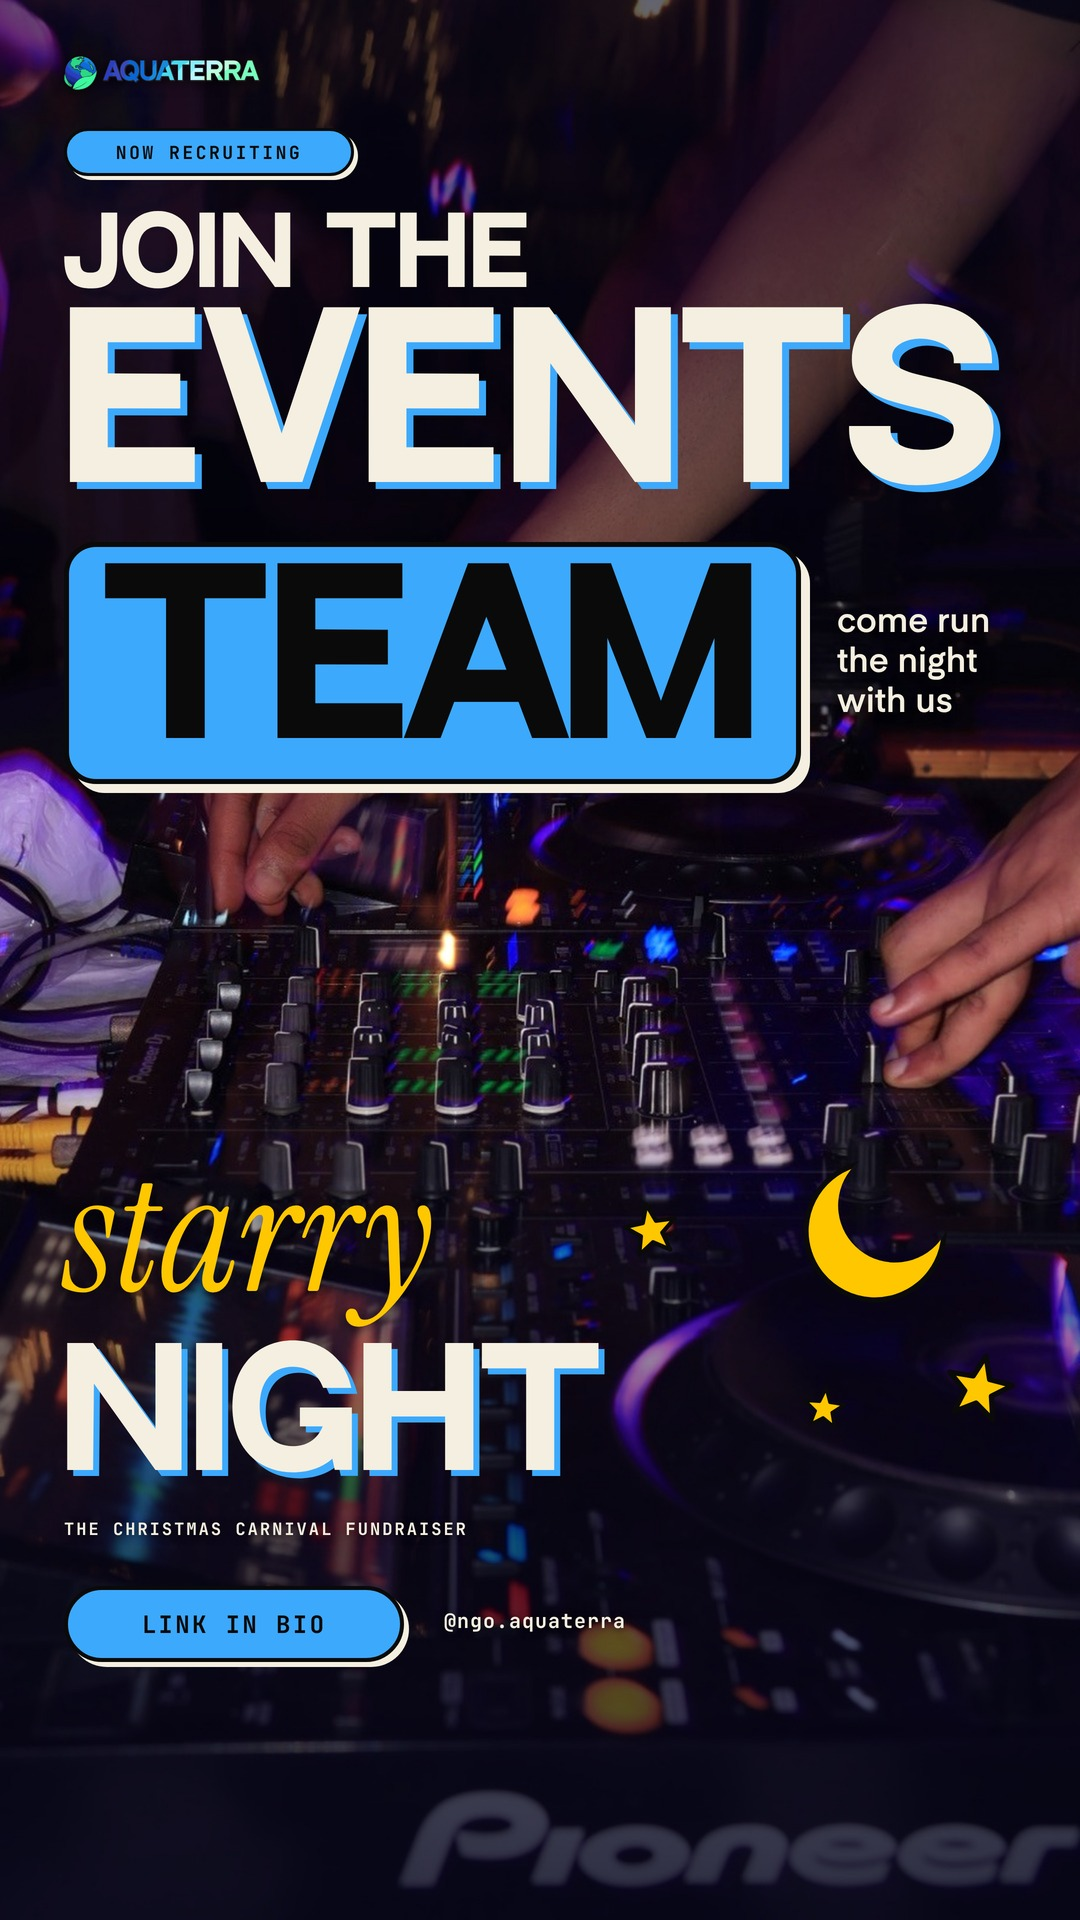
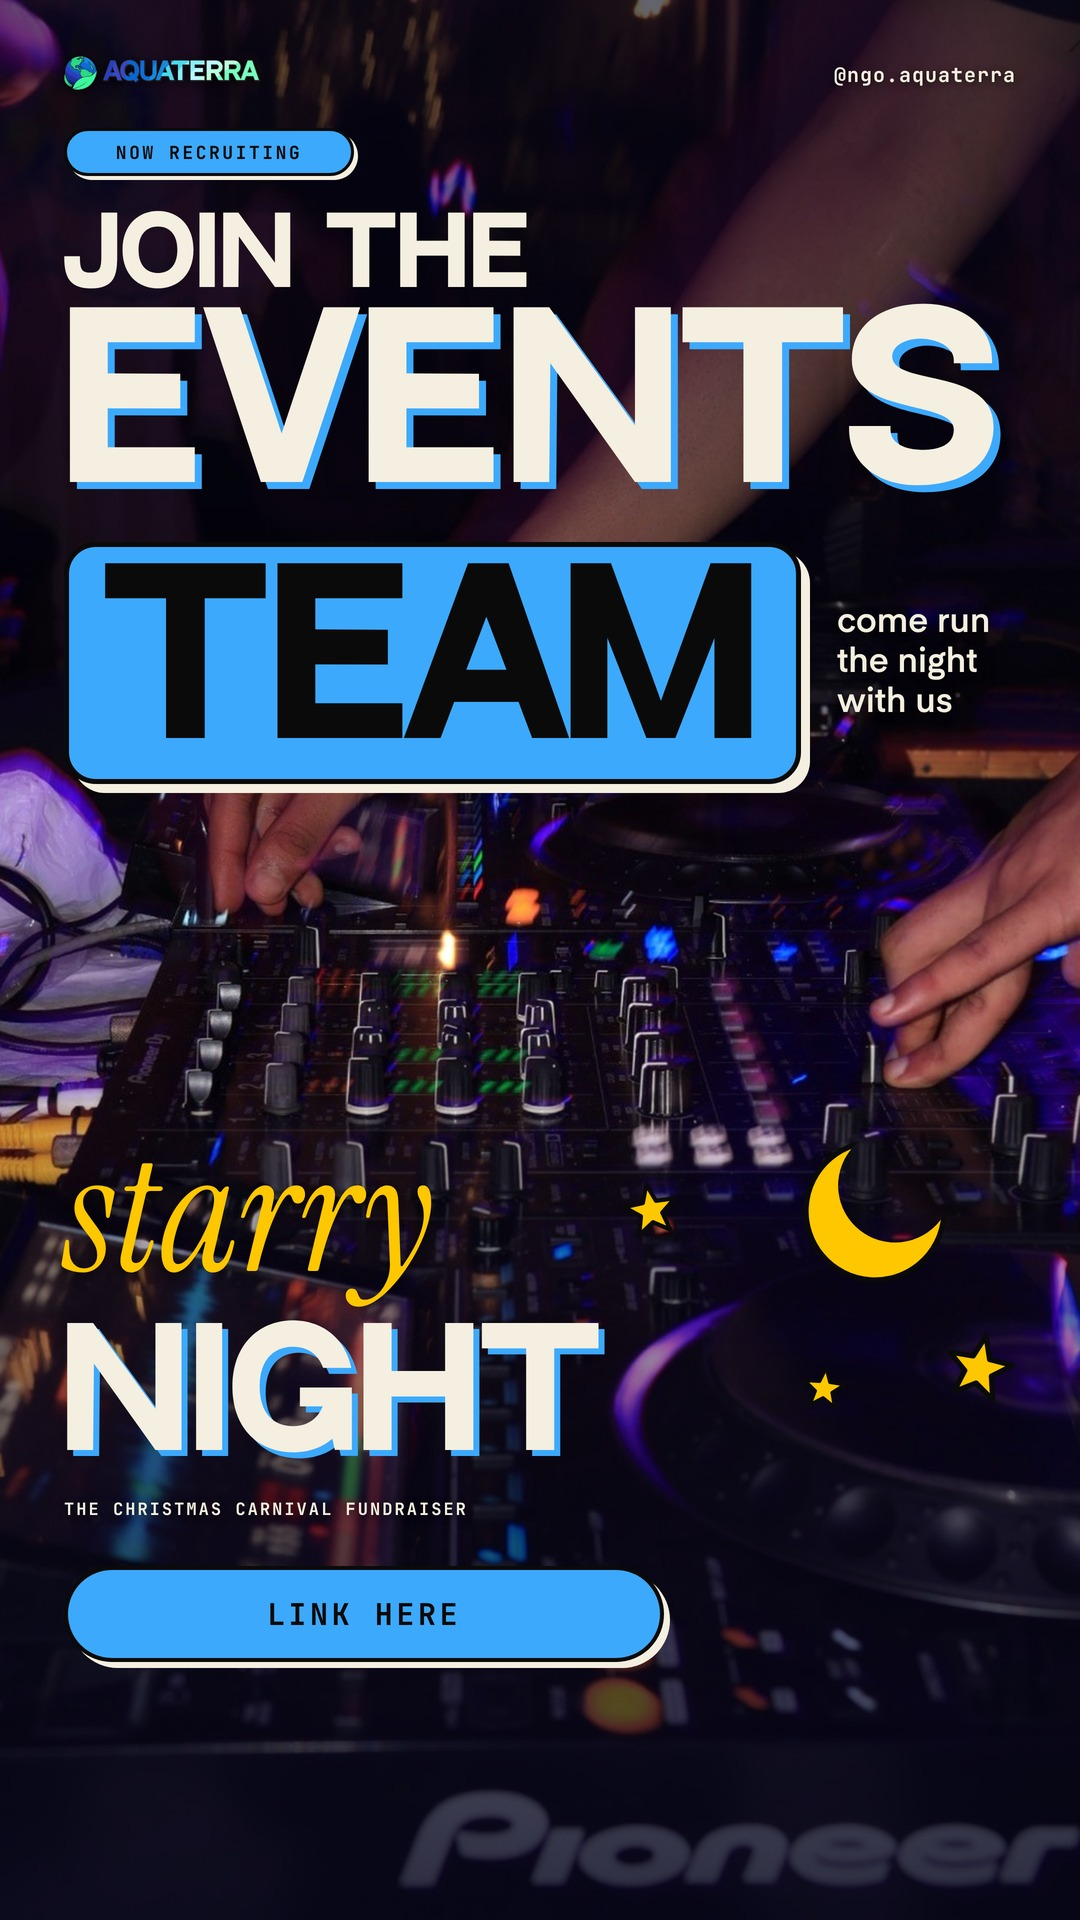
Starry Night recruitment story: LINK HERE slot for the form link sticker, handle to top-right
Claude-Session: https://claude.ai/code/session_01Hjb3YcdKTLxT7Wz1eeiWu3

diff --git a/scratchpad/aq_starry_recruit_photo.py b/scratchpad/aq_starry_recruit_photo.py
@@ -5,7 +5,7 @@ pieces (CAROUSEL_PLAYBOOK) are dark-scrimmed photos with bare logo, accent chips
 lemon for the moon and stars (cream ground rule does not apply on a photo ground). Craft outline/shadow colour is core.outline_of(surface), not ink (an ink shadow vanishes on this ground).
 TEXT COLOUR IS MEASURED, NOT ASSUMED (user: 'texts according to the contrast of the background picture'): the scrimmed background is rebuilt in numpy exactly as the CSS paints it, each text box is sampled at its
 BRIGHTEST 95th-percentile pixel (worst case for light type), and the type colour is picked from cream/white/ink by measured WCAG ratio; the table is printed and asserted. No facts beyond the earlier poster:
-Starry Night = the Christmas carnival fundraiser. Edition, date, venue, roles, deadline, link are NOT supplied; CTA is the AQ convention LINK IN BIO.
+Starry Night = the Christmas carnival fundraiser. Edition, date, venue, roles, deadline, link are NOT supplied; The CTA slot reads LINK HERE (user, 2026-11-21): it is an empty pill sized for an Instagram link sticker, to be covered with the form link when posted.
 Run: PYTHONIOENCODING=utf-8 python scratchpad/aq_starry_recruit_photo.py"""
 import asyncio, base64, io, os, sys, importlib.util
 import numpy as np
@@ -91,7 +91,7 @@ async def main():
         parts.append(box("sub", sx, sub_y, W - M - sx, 120, f'<div style="font-family:var(--e);font-weight:600;font-size:34px;line-height:1.18;color:{hexof(subc)};text-shadow:0 2px 10px rgba(0,0,0,.55)">come run<br>the night<br>with us</div>'))
         y_team_end = y + bh
         # ---- lower block: the photo is the hero in between (hands on the decks, y ~ 760-1180) ----
-        ly = 1160
+        ly = 1140
         parts.append(box("starry", M, ly, 560, starry_h, f'<div style="font-family:var(--s);font-style:italic;font-size:{starry_size:.0f}px;line-height:.9;color:{LEMON};white-space:nowrap;text-shadow:0 3px 14px rgba(0,0,0,.55)">starry</div>'))
         nc, _ = pick("night", M, ly + starry_h + 6, 700, night_h, int(night_size))
         parts.append(box("night", M - 4, ly + starry_h + 6, 700, night_h, f'<div style="font-family:var(--d);font-weight:900;font-size:{night_size:.0f}px;line-height:.86;text-transform:uppercase;color:{hexof(nc)};text-shadow:6px 6px 0 {SKY};white-space:nowrap">NIGHT</div>'))
@@ -104,19 +104,20 @@ async def main():
                          f'<circle cx="50" cy="50" r="46" fill="{LEMON}" stroke="{INK}" stroke-width="3.5" mask="url(#mm)" transform="rotate(-18 50 50)"/></svg>', z=15))
         for i, (kx, ky, ks, kr) in enumerate(((620, ly + 40, 62, -10), (940, ly + 190, 78, 12), (800, ly + 225, 48, 6))):
             parts.append(box(f"dd_star{i}", kx, ky, ks, ks, dd.stamp("star", LEMON, rot=kr, style="clean"), z=14))
-        # CTA row inside the safe zone (ends above y=1670, the reply bar)
-        cy0 = ey + 24 + 44
-        parts.append(box("cta", M, cy0, 340, 76, f'<div style="width:100%;height:100%;background:{SKY};border:4px solid {INK};border-radius:999px;box-shadow:5px 5px 0 {EDGE};box-sizing:border-box;display:flex;align-items:center;justify-content:center;'
-                         f'font-family:var(--m);font-weight:700;font-size:24px;letter-spacing:.1em;color:{INK}">LINK IN BIO</div>', z=12))
-        hc, _ = pick("handle", M + 380, cy0 + 22, 300, 30, 20)
-        parts.append(box("handle", M + 380, cy0 + 22, 300, 30, f'<div style="font-family:var(--m);font-weight:700;font-size:20px;letter-spacing:.05em;color:{hexof(hc)};text-shadow:0 2px 8px rgba(0,0,0,.6)">@ngo.aquaterra</div>'))
+        # LINK SLOT (user, 2026-11-21: 'write link here so we can post the link of the form'): a pill the size of an Instagram link sticker, left clear for it. Ends above the reply bar (y~1670).
+        cy0 = ey + 24 + 44; lw, lh = 600, 96
+        parts.append(box("linkzone", M, cy0, lw, lh, f'<div style="width:100%;height:100%;background:{SKY};border:4px solid {INK};border-radius:999px;box-shadow:6px 6px 0 {EDGE};box-sizing:border-box;display:flex;align-items:center;justify-content:center;'
+                         f'font-family:var(--m);font-weight:700;font-size:30px;letter-spacing:.12em;color:{INK}">LINK HERE</div>', z=12))
+        # the handle moves to the top-right kicker slot so nothing else sits in the link zone
+        hc, _ = pick("handle", W - M - 300, 62, 300, 30, 20)
+        parts.append(box("handle", W - M - 300, 62, 300, 30, f'<div style="font-family:var(--m);font-weight:700;font-size:20px;letter-spacing:.05em;color:{hexof(hc)};text-align:right;text-shadow:0 2px 8px rgba(0,0,0,.6)">@ngo.aquaterra</div>'))
         print("heights: starry", starry_h, "night", night_h, "team_end", y_team_end, "ly", ly)
         print(f"\nTEXT-COLOUR RECEIPT (95th-pct backing pixel under each box)\n{'label':8} {'colour':6} {'ratio':>6} {'floor':>5}  backing")
         for r in receipt: print(f"{r[0]:8} {r[1]:6} {r[2]:>6} {r[3]:>5}  {r[4]}")
-        print("CTA row ends at y =", cy0 + 76, "(reply bar starts ~1670)")
+        print("LINK slot ends at y =", cy0 + lh, "(reply bar starts ~1670)")
         inner = f'<img data-tag="plate" src="{BG_URI}" style="position:absolute;left:0;top:0;width:{W}px;height:{H}px;z-index:0">' + "".join(parts)
         html = B.page(W, H, "#000", inner, grain=False)
-        tp = [("eyebrow", INK, SKY, 18, True), ("team", INK, SKY, 200, True), ("cta", INK, SKY, 24, True)]
+        tp = [("eyebrow", INK, SKY, 18, True), ("team", INK, SKY, 200, True), ("linkzone", INK, SKY, 30, True)]
         for r in receipt:
             tp.append((r[0], {"cream": CREAM, "white": "#FFFFFF", "ink": INK}[r[1]], r[4], 17 if r[0] == "label" else 34, r[0] != "sub"))
         os.makedirs("out/aq_events", exist_ok=True)

diff --git a/brain/RECREATION_AUDIT.md b/brain/RECREATION_AUDIT.md
@@ -3375,3 +3375,4 @@ Same headline system as the slab version; the ink night-sky slab is replaced by 
 
 ### Photo variant (2026-11-21): `scratchpad/aq_starry_recruit_photo.py` -> `sample_outputs/aq_starry_recruit/story_photo.jpg`
 Same copy and facts as the cream story, on the user's DJ-decks photo (hands and decks only, no faces; `engine/assets/img/events/starry-night-2026-11/dj_decks.jpg`, EXIF rotation baked in: a HEIC-origin JPG stored 1620x1080 with Orientation 8 displays 1080x1620, and `exif_transpose` fixed it). TEXT COLOUR IS MEASURED: the scrimmed background is rebuilt in numpy exactly as the CSS paints it, each text box is sampled at its brightest 95th-percentile pixel, and the colour is picked from cream/white/ink by WCAG ratio, with a printed receipt (final: cream on every line, 7.4 to 16.3:1 against a 3.0 or 4.5 floor). v1 scrim measured 12-17:1, far more than needed and it buried the photo, so the scrim was lightened and the source lifted 1.18x; the receipt re-verified. v1 CTA row ended at y=1778, inside Instagram's reply bar (~1670); fixed by shrinking 'starry'/'NIGHT' and moving the lower block up. Craft outline colour is core.outline_of(dark ground) = cream, not ink. The Pioneer wordmark is part of the user's photo, left visible but dimmed by the scrim.
+- 2026-11-21 revision (user): the CTA 'LINK IN BIO' pill became a 600x96 'LINK HERE' slot (element `linkzone`, ends y=1662) sized for an Instagram link sticker, so the form link can be dropped on top at posting time. The @ngo.aquaterra handle moved to the top-right kicker slot (measured 11.7:1) so nothing else sits in the link zone; the lower block moved up 20px to keep the slot above the reply bar.
